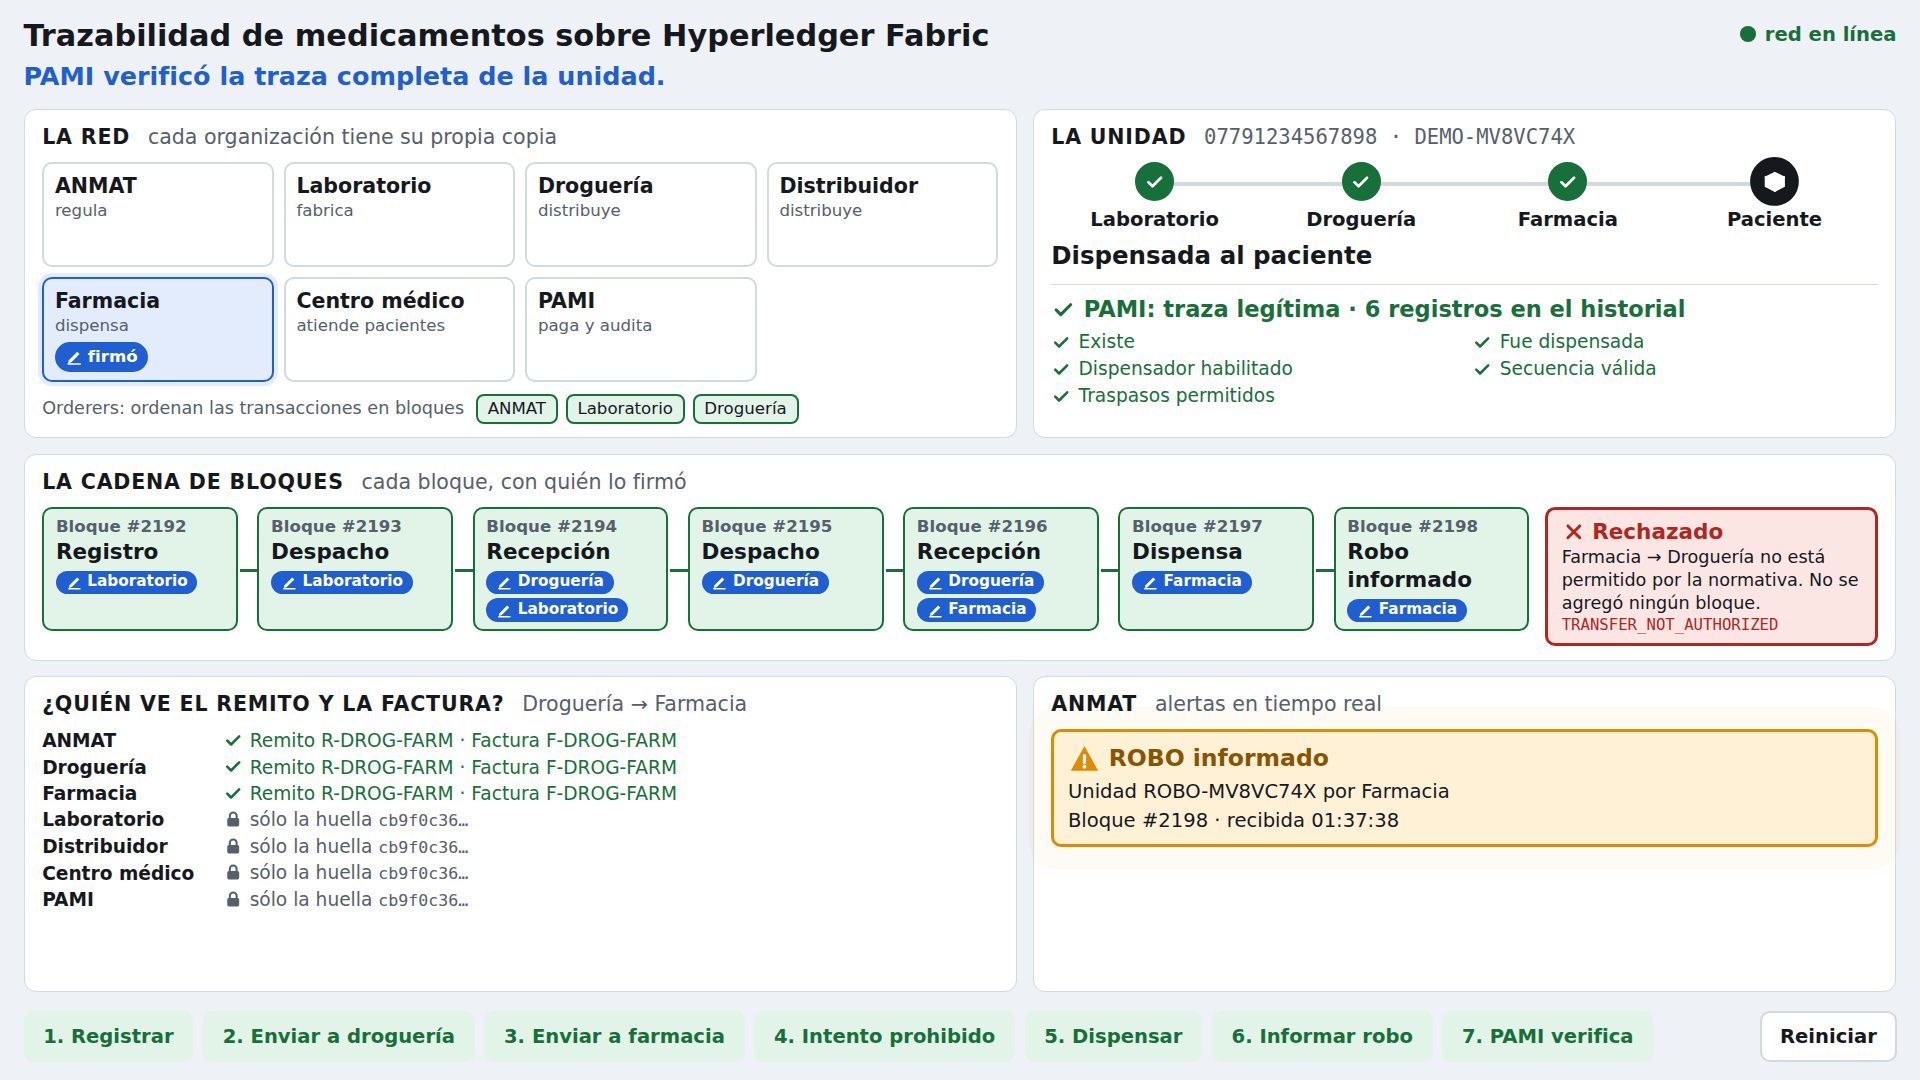
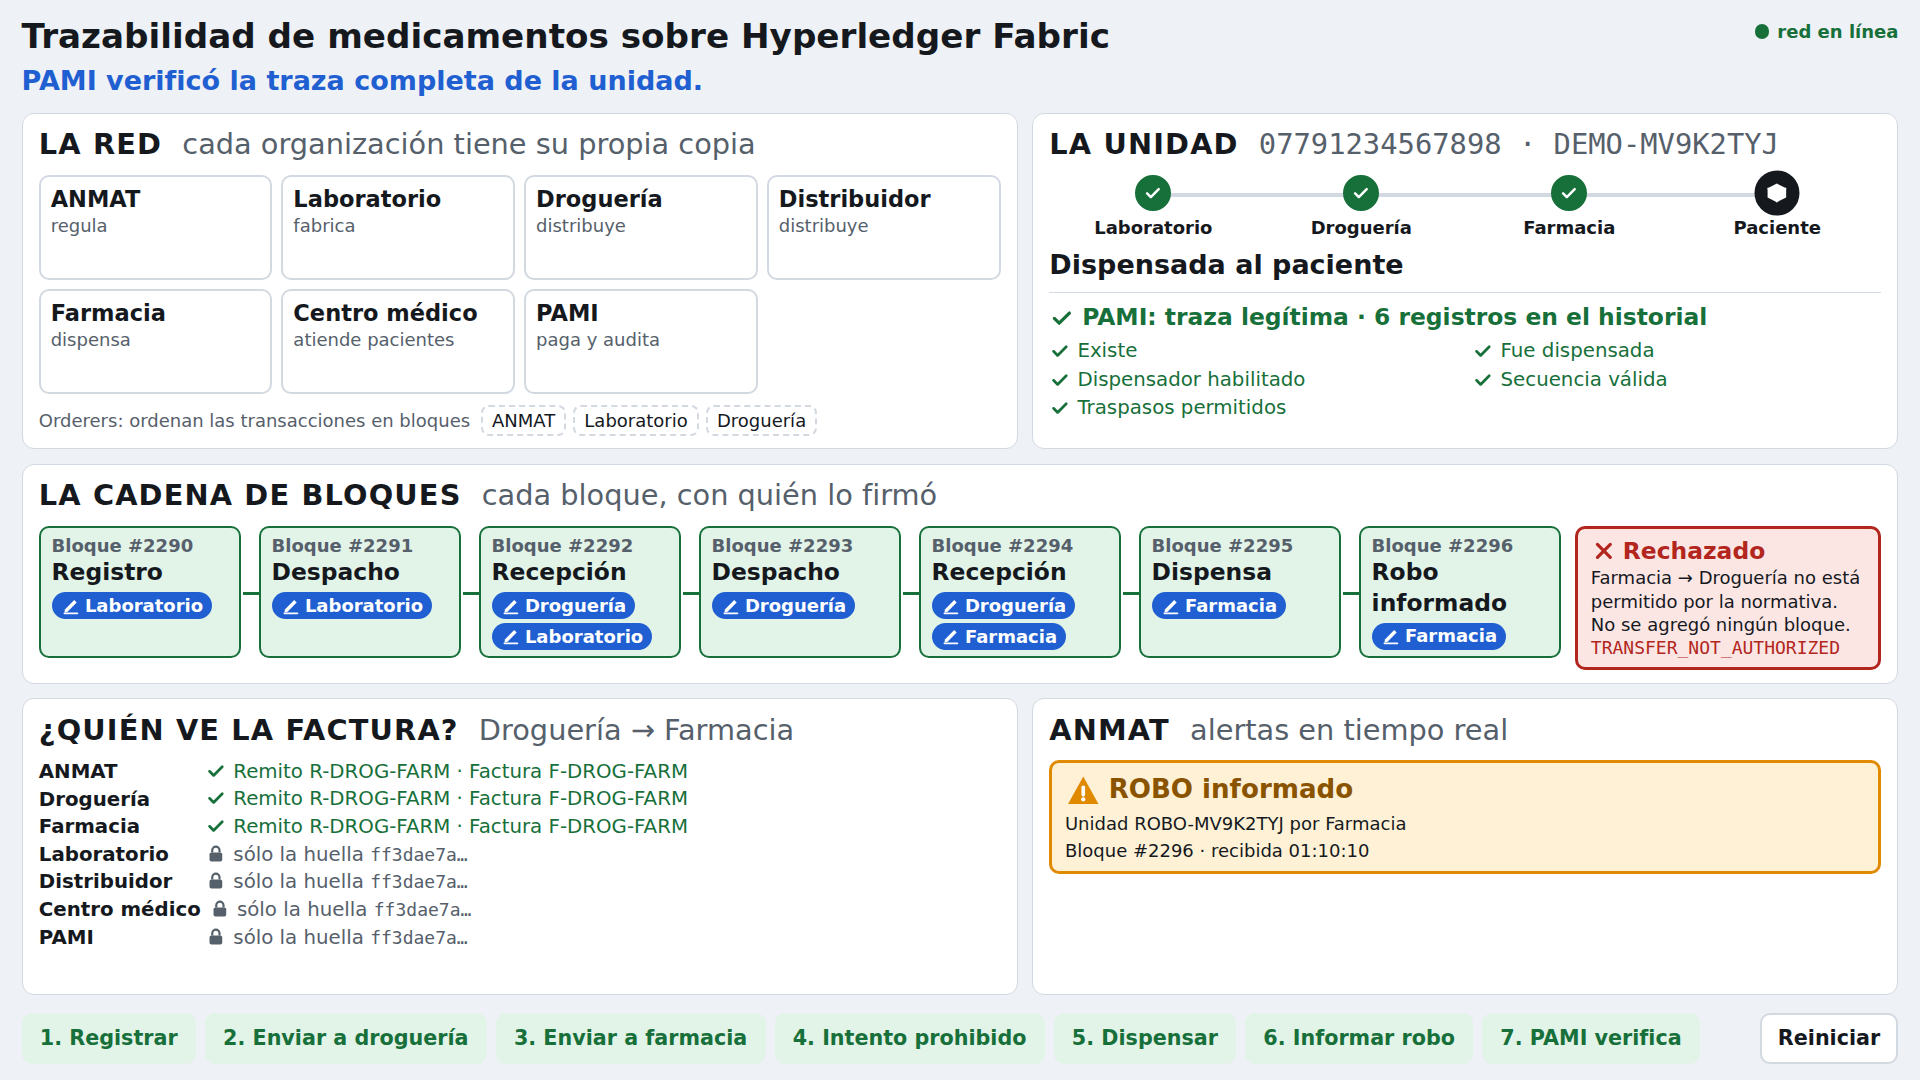
fix(demo): keep the registered custodian in transit and meet text minimums
During a transfer every card lost the custody mark, although ADR-004
keeps CustodioActual on the sender until ReceiveTransfer commits. The
sender's card now reads «custodio registrado» and the unit panel names
it until the reception.

At 1920x1080, the projection resolution, 1rem is now 18 px, no text is
smaller than 1rem and panel titles are 28.8 px, as the script requires;
smaller screens scale proportionally.

Refs #145

diff --git a/client/internal/app/demoweb/styles.css b/client/internal/app/demoweb/styles.css
@@ -18,7 +18,10 @@
   --warn-mark: #e08a00;
   --warn-soft: #fff1d6;
   --radius: 12px;
-  font-size: clamp(14px, 1.02vw, 22px);
+  /* 1rem = 18 px a 1920 px de ancho, la resolución de la proyección: ningún
+     texto baja de 1rem y los títulos de panel pasan los 28 px. En pantallas
+     más chicas todo escala en la misma proporción. */
+  font-size: clamp(11px, 0.9375vw, 24px);
 }
 
 * { box-sizing: border-box; }
@@ -50,11 +53,11 @@ svg.icon { width: 1.1em; height: 1.1em; flex: none; vertical-align: -0.18em; }
   padding: 0.8rem 1.2rem 0.4rem;
 }
 
-h1 { font-size: 1.55rem; margin: 0; }
+h1 { font-size: 1.9rem; margin: 0; }
 
 .caption {
   margin: 0.25rem 0 0;
-  font-size: 1.3rem;
+  font-size: 1.5rem;
   font-weight: 600;
   color: var(--accent);
   min-height: 1.7rem;
@@ -105,7 +108,7 @@ h1 { font-size: 1.55rem; margin: 0; }
 .anmat { grid-area: anmat; }
 
 h2 {
-  font-size: 1.05rem;
+  font-size: 1.6rem;
   text-transform: uppercase;
   letter-spacing: 0.04em;
   margin: 0 0 0.6rem;
@@ -135,11 +138,11 @@ h2 .hint {
   padding: 0.45rem 0.55rem;
   transition: border-color 0.3s, background 0.3s, box-shadow 0.3s;
 }
-.org .name { font-weight: 700; font-size: 1.05rem; }
-.org .role { color: var(--muted); font-size: 0.85rem; }
+.org .name { font-weight: 700; font-size: 1.25rem; }
+.org .role { color: var(--muted); font-size: 1rem; white-space: nowrap; overflow: hidden; text-overflow: ellipsis; }
 .org .badges { display: flex; gap: 0.3rem; margin-top: 0.3rem; min-height: 1.5rem; }
 .org.custodian { border-color: var(--ink); border-width: 3px; padding: calc(0.45rem - 1px) calc(0.55rem - 1px); }
-.org.custodian .role { color: var(--ink); font-weight: 700; display: flex; align-items: center; gap: 0.25rem; }
+.org.custodian .role { color: var(--ink); font-weight: 600; display: flex; align-items: center; gap: 0.2rem; }
 
 .badge {
   display: inline-flex;
@@ -147,7 +150,7 @@ h2 .hint {
   gap: 0.25rem;
   border-radius: 999px;
   padding: 0.1rem 0.5rem;
-  font-size: 0.85rem;
+  font-size: 1rem;
   font-weight: 700;
 }
 .badge.signed { background: var(--accent); color: #fff; }
@@ -165,13 +168,13 @@ h2 .hint {
   gap: 0.6rem;
   flex-wrap: wrap;
 }
-.orderers-label { color: var(--muted); font-size: 0.9rem; }
+.orderers-label { color: var(--muted); font-size: 1rem; }
 .orderer-list { display: flex; gap: 0.4rem; }
 .orderer {
   border: 2px dashed var(--line);
   border-radius: 8px;
   padding: 0.1rem 0.5rem;
-  font-size: 0.85rem;
+  font-size: 1rem;
   transition: border-color 0.3s, background 0.3s;
 }
 .orderer.pulse { border-color: var(--ok); background: var(--ok-soft); border-style: solid; }
@@ -210,15 +213,15 @@ h2 .hint {
 .stop.transit-to .node { border-color: var(--accent); border-style: dashed; }
 .stop .label { font-weight: 600; }
 
-.unit-status { font-size: 1.25rem; font-weight: 700; margin: 0.4rem 0 0; }
-.unit-status .sub { display: block; font-size: 0.95rem; font-weight: 500; color: var(--muted); }
+.unit-status { font-size: 1.5rem; font-weight: 700; margin: 0.4rem 0 0; }
+.unit-status .sub { display: block; font-size: 1rem; font-weight: 500; color: var(--muted); }
 
 .trace { margin-top: 0.6rem; border-top: 1px solid var(--line); padding-top: 0.5rem; }
-.trace .verdict { font-size: 1.15rem; font-weight: 700; display: flex; align-items: center; gap: 0.4rem; }
+.trace .verdict { font-size: 1.3rem; font-weight: 700; display: flex; align-items: center; gap: 0.4rem; }
 .trace .verdict.ok { color: var(--ok); }
 .trace .verdict.bad { color: var(--bad); }
 .trace ul { list-style: none; margin: 0.3rem 0 0; padding: 0; display: grid; grid-template-columns: 1fr 1fr; gap: 0.15rem 0.8rem; }
-.trace li { display: flex; align-items: center; gap: 0.35rem; font-size: 0.95rem; }
+.trace li { display: flex; align-items: center; gap: 0.35rem; font-size: 1.1rem; }
 .trace li.ok { color: var(--ok); }
 .trace li.bad { color: var(--bad); }
 
@@ -256,10 +259,10 @@ h2 .hint {
   height: 3px;
   background: var(--ok);
 }
-.block .number { font-size: 0.85rem; color: var(--muted); font-weight: 600; }
-.block .operation { font-size: 1.1rem; font-weight: 700; }
+.block .number { font-size: 1rem; color: var(--muted); font-weight: 600; }
+.block .operation { font-size: 1.3rem; font-weight: 700; }
 .block .signers { display: flex; flex-direction: column; align-items: flex-start; gap: 0.2rem; margin-top: 0.25rem; }
-.block .signers .badge { font-size: 0.78rem; }
+.block .signers .badge { font-size: 1rem; }
 .block.invalid { border-color: var(--bad); background: var(--bad-soft); }
 .block.new { animation: arrive 0.6s ease-out; }
 
@@ -278,9 +281,9 @@ h2 .hint {
   padding: 0.4rem 0.7rem;
   animation: arrive 0.6s ease-out;
 }
-.rejection .title { font-weight: 800; font-size: 1.1rem; display: flex; align-items: center; gap: 0.35rem; }
-.rejection .detail { color: var(--ink); font-size: 0.9rem; }
-.rejection .code { font-size: 0.8rem; color: var(--bad); }
+.rejection .title { font-weight: 800; font-size: 1.3rem; display: flex; align-items: center; gap: 0.35rem; }
+.rejection .detail { color: var(--ink); font-size: 1rem; }
+.rejection .code { font-size: 1rem; color: var(--bad); }
 
 /* --- Privacidad ------------------------------------------------------------- */
 
@@ -291,11 +294,11 @@ h2 .hint {
   display: grid;
   gap: 0.15rem;
 }
-.privacy-list li { display: flex; align-items: center; gap: 0.45rem; white-space: nowrap; font-size: 0.95rem; line-height: 1.25; }
+.privacy-list li { display: flex; align-items: center; gap: 0.45rem; white-space: nowrap; font-size: 1.1rem; line-height: 1.25; }
 .privacy-list .who { font-weight: 700; min-width: 8.8rem; }
 .privacy-list .sees { color: var(--ok); }
 .privacy-list .hidden-data { color: var(--muted); }
-.privacy-list .hash { font-size: 0.85rem; }
+.privacy-list .hash { font-size: 1rem; }
 
 /* --- ANMAT ------------------------------------------------------------------ */
 
@@ -307,7 +310,7 @@ h2 .hint {
   margin-bottom: 0.4rem;
   animation: flash 1.2s ease-out 2;
 }
-.alert .title { color: var(--warn); font-weight: 800; font-size: 1.2rem; display: flex; align-items: center; gap: 0.4rem; }
+.alert .title { color: var(--warn); font-weight: 800; font-size: 1.45rem; display: flex; align-items: center; gap: 0.4rem; }
 .alert .title .icon { color: var(--warn-mark); width: 1.4em; height: 1.4em; }
 .alert .detail { margin-top: 0.2rem; }
 
@@ -330,7 +333,7 @@ h2 .hint {
 button {
   font: inherit;
   font-weight: 700;
-  font-size: 1rem;
+  font-size: 1.15rem;
   border-radius: 10px;
   padding: 0.55rem 0.9rem;
   border: 2px solid var(--line);
@@ -360,12 +363,12 @@ button.reset { color: var(--ink); }
   background: var(--panel);
   border-radius: var(--radius);
   padding: 1.2rem 1.6rem;
-  font-size: 1.3rem;
+  font-size: 1.5rem;
   font-weight: 700;
   max-width: 40rem;
   text-align: center;
 }
-.overlay-box .detail { display: block; font-size: 0.95rem; font-weight: 500; color: var(--bad); margin-top: 0.4rem; }
+.overlay-box .detail { display: block; font-size: 1rem; font-weight: 500; color: var(--bad); margin-top: 0.4rem; }
 
 @media (prefers-reduced-motion: reduce) {
   *, *::before, *::after { animation: none !important; transition: none !important; }

diff --git a/client/internal/app/demoweb/app.js b/client/internal/app/demoweb/app.js
@@ -130,12 +130,13 @@ function renderNetwork() {
   renderCustody();
 }
 
-// La organización que tiene la unidad se marca con el borde y el texto de su
-// tarjeta, sin cambiar su altura.
+// El custodio registrado se marca con el borde y el texto de su tarjeta, sin
+// cambiar su altura. Durante el tránsito sigue siendo el emisor: ADR-004 sólo
+// cambia CustodioActual al confirmarse la recepción.
 function renderCustody() {
   if (!view.network) return;
   const unit = view.scenario && view.scenario.unit;
-  const custodian = unit && unit.estado !== "DISPENSADO" && !view.transit ? slugForID(unit.custodioActual) : "";
+  const custodian = unit && unit.estado !== "DISPENSADO" ? slugForID(unit.custodioActual) : "";
   for (const organization of view.network.organizations) {
     const card = $("org-" + organization.slug);
     if (!card) continue;
@@ -143,7 +144,7 @@ function renderCustody() {
     const holds = organization.slug === custodian;
     card.classList.toggle("custodian", holds);
     role.replaceChildren();
-    if (holds) role.append(icon("box"), document.createTextNode("tiene la unidad"));
+    if (holds) role.append(icon("box"), document.createTextNode(view.transit ? "custodio registrado" : "tiene la unidad"));
     else role.textContent = ROLES[organization.slug] || "";
   }
 }
@@ -203,6 +204,9 @@ function renderUnit() {
   const unit = scenario && scenario.unit;
   if (view.transit) {
     status.append(document.createTextNode("En tránsito hacia " + ROUTE[view.transit.to].label));
+    if (unit) {
+      status.append(el("span", "sub", "Custodio registrado: " + label(slugForID(unit.custodioActual)) + " hasta que se confirme la recepción"));
+    }
   } else if (!unit) {
     status.append(document.createTextNode("Todavía no registrada"));
   } else {

diff --git a/client/internal/app/demoweb/index.html b/client/internal/app/demoweb/index.html
@@ -51,7 +51,7 @@
     </section>
 
     <section class="panel privacy" aria-labelledby="h-privacy">
-      <h2 id="h-privacy">¿Quién ve el remito y la factura? <span class="hint" id="privacy-transfer"></span></h2>
+      <h2 id="h-privacy">¿Quién ve la factura? <span class="hint" id="privacy-transfer"></span></h2>
       <ul class="privacy-list" id="privacy"></ul>
       <p class="empty" id="privacy-empty">Aparece con la primera transferencia.</p>
     </section>

diff --git a/docs/defense-demo.md b/docs/defense-demo.md
@@ -57,7 +57,10 @@ terminar el guion, sobre la red local:
 ## Boceto de la pantalla
 
 Una sola vista, sin navegación, pensada para 1920 × 1080 proyectado y legible en
-una notebook de 13". Texto mínimo de 18 px y títulos de 28 px o más.
+una notebook de 13". A 1920 × 1080 ningún texto baja de 18 px y los títulos de
+panel tienen 28 px o más; en pantallas más chicas todo escala en la misma
+proporción (a 1366 × 768, 12,8 y 20,5 px), para que la vista completa entre sin
+scroll.
 
 ```text
 ┌───────────────────────────────────────────────────────────────────────────────────────┐
